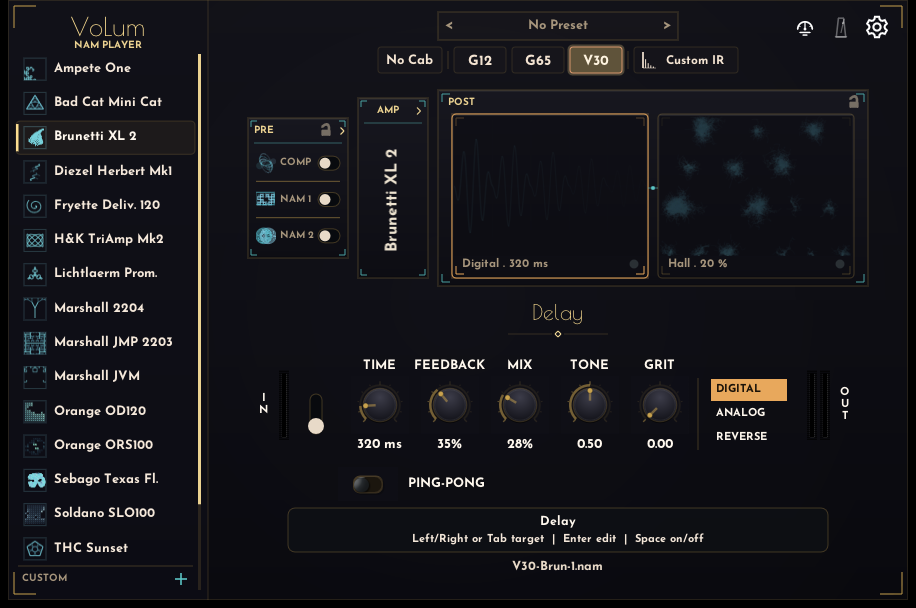
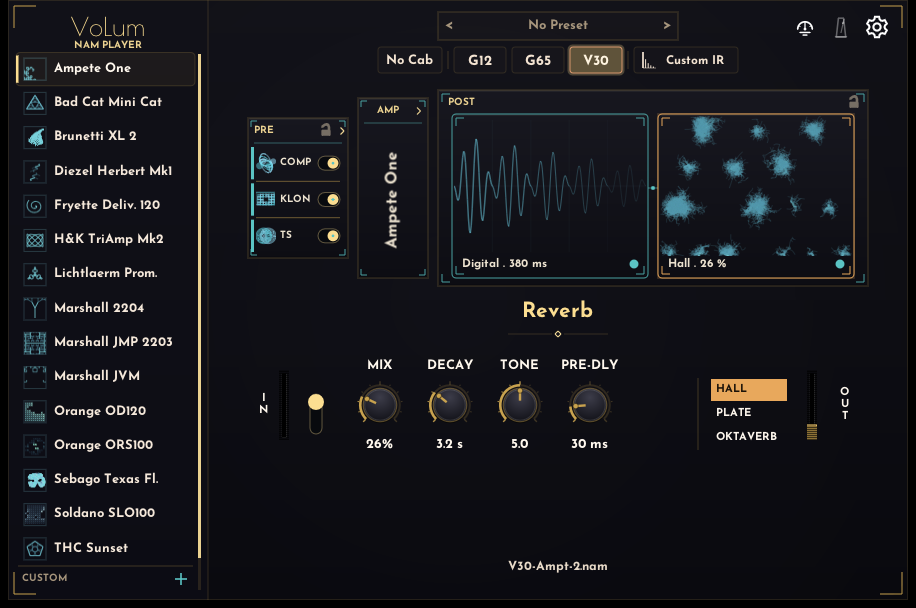
1.2.0 docs polish + custom-amp cab-name clamp
Documentation/screenshot finalization for the 1.2.0 BYO + presets release,
plus the cab-name overflow fix found during the doc pass.

Docs:
- Center the README hero; reshoot it as one deliberate SLO100 scene
  (channel 3, TS boost, reverb on, delay off).
- Reshoot Dual Amp pairing SLO100 with the Ampete One, panned.
- Refresh + add screenshots (custom amp builder, custom IR, custom pedal,
  presets) and wire them into the guide.
- Reword A2 messaging: NAM Architecture 2, best fit between 700-1200 epochs,
  always played full-size (never the lite slice); note custom amps accept
  A1/A2; clarify a custom IR convolves the amp's DIRECT capture.
- Re-research the amp orientation list and refresh the developer-guide
  product table for 1.2. EN/DE kept in sync. Remove the parked
  1.2.0-user-guide-todo checklist.

Fix:
- Clamp custom-amp cab-slot names to the 3-char rule at every persistence
  boundary (load + add/update), not just the builder rename field, so a
  hand-edited/migrated registry can't overflow the cabinet row. Adds a
  load-boundary clamp test.

diff --git a/NeuralAmpModeler/tests/test_volum_content_store.cpp b/NeuralAmpModeler/tests/test_volum_content_store.cpp
@@ -48,6 +48,37 @@ TEST_CASE("MintId returns prefixed, unique opaque ids")
   CHECK(MintId(r, "amp") != a);
 }
 
+TEST_CASE("Cab names are clamped to the 3-char rule at the load boundary")
+{
+  // Direct model helper: whitespace dropped, uppercased, capped at 3; an empty
+  // (or whitespace-only) slot falls back to its CBn default.
+  volum::custom::CustomAmp a;
+  a.cabNames = {"Bogner 4x12", "Marshall 1960", "   "};
+  volum::custom::NormalizeAmpCabNames(a);
+  CHECK(a.cabNames[0] == "BOG");
+  CHECK(a.cabNames[1] == "MAR");
+  CHECK(a.cabNames[2] == "CB3");
+
+  // Load path: a hand-edited / migrated registry carrying over-long names must
+  // not survive into the live model (otherwise the cabinet row overflows).
+  nlohmann::json amp;
+  amp["id"] = "amp_clamp";
+  amp["name"] = "Monomyth Skeleton Key";
+  amp["cabNames"] = nlohmann::json::array({"Bogner 4x12", "Marshall 1960", "Orange PPC"});
+  nlohmann::json amps = nlohmann::json::array();
+  amps.push_back(amp);
+  nlohmann::json j;
+  j["schemaVersion"] = kContentSchemaVersion;
+  j["customAmps"] = amps;
+
+  bool healed = false;
+  Registry r = RegistryFromJson(j, &healed);
+  REQUIRE(r.amps.size() == 1);
+  CHECK(r.amps[0].cabNames[0] == "BOG");
+  CHECK(r.amps[0].cabNames[1] == "MAR");
+  CHECK(r.amps[0].cabNames[2] == "ORA");
+}
+
 TEST_CASE("Registry round-trips amps, IRs, pedals, presets, and scenes")
 {
   Registry r;

diff --git a/NeuralAmpModeler/VoLumCustomModel.h b/NeuralAmpModeler/VoLumCustomModel.h
@@ -101,6 +101,23 @@ inline std::string NormalizeCabName(const std::string& in)
   return s;
 }
 
+// Clamp every cab-slot name to the 3-char rule (see NormalizeCabName). A slot
+// whose stored name normalizes to empty falls back to its "CBn" default. Apply
+// this at every persistence boundary (registry load + add/update) so a
+// hand-edited or migrated registry can never carry an over-long cab name that
+// overflows the cabinet row. The builder text-entry path already normalizes per
+// field; this is the matching backend guarantee.
+inline void NormalizeAmpCabNames(CustomAmp& amp)
+{
+  for (int i = 0; i < kNumCabSlots; ++i)
+  {
+    std::string norm = NormalizeCabName(amp.cabNames[(size_t)i]);
+    if (norm.empty())
+      norm = "CB" + std::to_string(i + 1);
+    amp.cabNames[(size_t)i] = norm;
+  }
+}
+
 // Number of files still missing a slot/channel assignment.
 inline int UnassignedCount(const CustomAmp& amp)
 {

diff --git a/NeuralAmpModeler/VoLumCustomContentMock.h b/NeuralAmpModeler/VoLumCustomContentMock.h
@@ -142,6 +142,7 @@ inline int AddCustomAmp(const CustomAmp& amp)
 {
   auto& reg = Store().reg();
   CustomAmp a = amp;
+  NormalizeAmpCabNames(a);
   const std::string base = a.name.empty() ? "New custom amp" : a.name;
   std::string unique = base;
   int suffix = 2;
@@ -171,6 +172,7 @@ inline int UpdateCustomAmp(int idx, const CustomAmp& amp)
     return -1;
   CustomAmp a = amp;
   a.id = reg.amps[(size_t)idx].id; // identity is immutable across edits
+  NormalizeAmpCabNames(a);
   const std::string base = a.name.empty() ? "New custom amp" : a.name;
   std::string unique = base;
   int suffix = 2;

diff --git a/NeuralAmpModeler/VoLumContentStore.h b/NeuralAmpModeler/VoLumContentStore.h
@@ -208,6 +208,9 @@ inline bool CustomAmpFromJson(const nlohmann::json& j, custom::CustomAmp& out)
       if (cn[i].is_string())
         out.cabNames[(size_t)i] = cn[i].get<std::string>();
   }
+  // Lenient-read clamp: enforce the 3-char cab-name rule on load so a
+  // hand-edited or migrated registry can never overflow the cabinet row.
+  custom::NormalizeAmpCabNames(out);
   if (j.contains("files") && j["files"].is_array())
   {
     for (const auto& f : j["files"])

diff --git a/docs/user-guide.de.md b/docs/user-guide.de.md
@@ -15,7 +15,7 @@ Dieses Handbuch erklärt die VoLum-1.2-Oberfläche nach der Installation. Downlo
 5. **PRE | AMP | POST-Leiste:** öffnet immer genau einen Bereich.
 6. **Toolbar:** Tuner, Metronom und Einstellungen sitzen oben rechts.
 
-Die mitgelieferten NAM-Profile wurden mit einem Interface-Eingangspegel um +4 dBu aufgenommen. Nutze einen ähnlichen Pro-Line-Eingangspegel in VoLum, um den aufgenommenen Sounds möglichst nah zu kommen. VoLum 1.1 liefert die komplette A2-Profilbibliothek: alle mitgelieferten Amp-, Cab- und PRE-NAM-Captures wurden mit dem VoLum-Training samt 700-1200-Epochen-Eskalation neu trainiert.
+Die mitgelieferten NAM-Profile wurden mit einem Interface-Eingangspegel um +4 dBu aufgenommen. Nutze einen ähnlichen Pro-Line-Eingangspegel in VoLum, um den aufgenommenen Sounds möglichst nah zu kommen. Jedes mitgelieferte Amp-, Cab- und PRE-NAM-Capture ist ein NAM-Architecture-2-(A2)-Profil, trainiert auf den besten Sitz zwischen 700 und 1200 Epochen. A2-Captures werden immer in voller Größe gespielt; VoLum fällt nie auf die Lite-Variante zurück.
 
 VoLum speichert die meisten Spiel-Einstellungen pro Amp. Wenn du zu einem Amp zurückkehrst, stellt VoLum Speaker, Kanal, Regler, PRE-Pedale, POST-Effekte und Dual Amp wieder her.
 
@@ -25,9 +25,10 @@ Die linke Seitenleiste enthält die 15 mitgelieferten Amps. Jeder Amp hat vier S
 
 Kurze Orientierung:
 
-- **Vintage:** Orange ORS100, Orange OD120, Marshall JMP 2203, Marshall 2204.
-- **Modern/High Gain:** Diezel Herbert, Soldano SLO100, Marshall JVM, H&K TriAmp.
-- **Boutique/Charakter:** Ampete One, Bad Cat Mini Cat, Brunetti XL 2, Lichtlaerm Prometheus, Sebago Texas Flood, THC Sunset, Fryette Deliverance.
+- **Clean, Blues und dynamische Boutique:** Sebago Texas Flood (ein Pedal-Platform im Stil des Dumble Steel String Singer), THC Sunset, Bad Cat Mini Cat.
+- **Vintage und Classic-Rock-Crunch:** Orange ORS100, Orange OD120, Marshall JMP 2203, Marshall 2204.
+- **Modern und High Gain:** Soldano SLO100, Diezel Herbert, Marshall JVM, H&K TriAmp, Fryette Deliverance, Lichtlaerm Prometheus, Brunetti XL 2.
+- **Allrounder:** Der Ampete One vereint eine amerikanische und eine britische Stimme in einem Amp.
 
 Amp-EQ und Pedal-EQ sind zusätzliche Klangregler. Sie müssen nicht den physischen Reglerstellungen entsprechen, mit denen das Profil aufgenommen wurde.
 
@@ -95,6 +96,8 @@ Beim Wechsel von Delay-Modus, Ping-Pong, Reverb-Modus oder Oktaverb-Stimme wird 
 
 ## Presets
 
+![VoLum Preset-Verwaltung](user-guide-presets.png)
+
 Ein Preset ist eine benannte Momentaufnahme des gesamten Rigs für den fokussierten Amp: Speaker/Cab, Kanal, alle Regler, PRE-Pedale, POST-Effekte und das Dual-Amp-Setup.
 
 1. Stelle einen Sound ein und öffne die Preset-Leiste in der AMP-Kopfzeile.
@@ -111,11 +114,17 @@ VoLum kann eigene NAM-Amp-Captures, Impulsantworten und Pedal-Captures laden. Im
 - **Windows:** `%LOCALAPPDATA%\VoLum\content`
 - **macOS:** `~/Library/Application Support/VoLum/content`
 
-**Eigene Amps.** Öffne das **+** im CUSTOM-Bereich des Amp-Browsers, um den Builder zu öffnen. Benenne den Amp, füge eine oder mehrere `.nam`-Dateien hinzu und ordne jede einem Cab-Slot und Kanal zu (Dateien im Schema `PREFIX-CODE-CHANNEL.nam` füllen das automatisch aus). Gespeicherte eigene Amps erscheinen in der CUSTOM-Liste und werden genau wie Werk-Amps geladen und gespielt — auch als Dual-Amp-SUPPORT-Partner. Mit den Stift-/Papierkorb-Symbolen bearbeitest oder löschst du einen.
+**Eigene Amps.** Klicke auf das **+** im CUSTOM-Bereich des Amp-Browsers, um den Builder zu öffnen. Benenne den Amp, füge eine oder mehrere `.nam`-Dateien hinzu und ordne jede einem Cab-Slot und Kanal zu (Dateien im Schema `PREFIX-CODE-CHANNEL.nam` füllen das automatisch aus). Sowohl NAM-Architecture-1-(A1)- als auch Architecture-2-(A2)-Captures laden, und A2-Container werden in voller Größe gespielt wie die mitgelieferten Profile. Gespeicherte eigene Amps erscheinen in der CUSTOM-Liste und werden genau wie Werk-Amps geladen und gespielt — auch als Dual-Amp-SUPPORT-Partner. Mit den Stift-/Papierkorb-Symbolen bearbeitest oder löschst du einen.
 
-**Eigene IRs.** Wähle in der Speaker-Reihe das Cab **Custom IR** und importiere dann über dessen Dropdown eine `.wav`-Impulsantwort. Die IR faltet auf dem fokussierten Cab.
+![VoLum Builder für eigene Amps](user-guide-custom-amp.png)
+
+**Eigene IRs.** Eine Custom IR faltet das **DIRECT**-Capture (nur Amp) des Amps — den rohen Amp ohne eingebackenen Speaker. Sie ist für einen eigenen Amp gedacht, der ein DIRECT-Capture enthält; die Auswahl des Cabs **Custom IR** schaltet den Amp zuerst auf sein DIRECT/No-Cab-Capture. Ein eigener Amp, der nur aus vollen Amp-plus-Cab-Captures gebaut ist, hat kein rohes Signal, das eine IR formen könnte. Wähle in der Speaker-Reihe das Cab **Custom IR** und importiere dann über dessen Dropdown eine `.wav`-Impulsantwort.
+
+![VoLum Verwaltung eigener IRs](user-guide-custom-ir.png)
 
 **Eigene Pedale.** Im PRE-NAM-Capture-Dropdown kannst du in der **CUSTOM**-Gruppe eigene `.nam`-Pedal-Captures importieren und verwalten; ein importiertes Capture lädt wie ein Werk-Capture in seinen PRE-Slot.
+
+![VoLum Verwaltung eigener Pedale](user-guide-custom-pedal.png)
 
 Die Inhaltsbibliothek wird von allen geöffneten Instanzen und Spuren geteilt. In einer DAW speichert das Projekt stabile Referenzen (IDs) auf deine eigenen Amps, IRs, Pedale und das aktive Preset, sodass das erneute Öffnen eines Projekts sie wiederherstellt, solange die Einträge noch in deiner Bibliothek vorhanden sind.
 

diff --git a/docs/user-guide.en.md b/docs/user-guide.en.md
@@ -15,7 +15,7 @@ This guide explains the VoLum 1.2 interface after installation. For downloads, u
 5. **PRE | AMP | POST strip:** open one section at a time.
 6. **Toolbar:** tuner, metronome, and settings live in the top-right corner.
 
-The bundled NAM profiles were captured with the interface input set around +4 dBu. Use a similar pro-line input level into VoLum for the closest match to the captured tones. VoLum 1.1 ships the full A2 profile library: all bundled amp, cab, and PRE NAM captures were retrained with the VoLum 700-1200 epoch escalation workflow.
+The bundled NAM profiles were captured with the interface input set around +4 dBu. Use a similar pro-line input level into VoLum for the closest match to the captured tones. Every bundled amp, cab, and PRE NAM capture is a NAM Architecture 2 (A2) profile, trained to its best fit between 700 and 1200 epochs. A2 captures always play at full size; VoLum never drops to the lite slice.
 
 VoLum saves most playing choices per amp. When you come back to an amp, it restores the speaker, channel, knobs, PRE pedals, POST effects, and Dual Amp setup.
 
@@ -25,9 +25,10 @@ Use the left sidebar for the 15 bundled amps. Each amp has four speaker modes an
 
 Short orientation:
 
-- **Vintage:** Orange ORS100, Orange OD120, Marshall JMP 2203, Marshall 2204.
-- **Modern/high gain:** Diezel Herbert, Soldano SLO100, Marshall JVM, H&K TriAmp.
-- **Boutique/character:** Ampete One, Bad Cat Mini Cat, Brunetti XL 2, Lichtlaerm Prometheus, Sebago Texas Flood, THC Sunset, Fryette Deliverance.
+- **Cleans, blues, and dynamic boutique:** Sebago Texas Flood (a Dumble Steel String Singer-style pedal platform), THC Sunset, Bad Cat Mini Cat.
+- **Vintage and classic-rock crunch:** Orange ORS100, Orange OD120, Marshall JMP 2203, Marshall 2204.
+- **Modern and high gain:** Soldano SLO100, Diezel Herbert, Marshall JVM, H&K TriAmp, Fryette Deliverance, Lichtlaerm Prometheus, Brunetti XL 2.
+- **Do-it-all:** Ampete One pairs an American and a British voice in one amp.
 
 Amp EQ and pedal EQ are extra tone-shaping controls. They do not need to match the physical knob positions used during profiling.
 
@@ -95,6 +96,8 @@ Switching Delay mode, Ping-Pong, Reverb mode, or Oktaverb voice clears the old t
 
 ## Presets
 
+![VoLum preset manager](user-guide-presets.png)
+
 A preset is a named snapshot of the whole rig for the focused amp: speaker/cab, channel, all knobs, PRE pedals, POST effects, and the Dual Amp setup.
 
 1. Dial in a tone, then open the preset bar in the AMP header.
@@ -111,11 +114,17 @@ VoLum can load your own NAM amp captures, impulse responses, and pedal captures.
 - **Windows:** `%LOCALAPPDATA%\VoLum\content`
 - **macOS:** `~/Library/Application Support/VoLum/content`
 
-**Custom amps.** Open the **+** in the CUSTOM section of the amp browser to open the builder. Name the amp, add one or more `.nam` files, and assign each to a cab slot and channel (files named `PREFIX-CODE-CHANNEL.nam` auto-fill). Saved custom amps appear in the CUSTOM list and load and play exactly like factory amps — including as the dual-amp SUPPORT partner. Use the pen/bin icons to edit or delete one.
+**Custom amps.** Click the **+** in the CUSTOM section of the amp browser to open the builder. Name the amp, add one or more `.nam` files, and assign each to a cab slot and channel (files named `PREFIX-CODE-CHANNEL.nam` auto-fill). Both NAM Architecture 1 (A1) and Architecture 2 (A2) captures load, and A2 containers play at full size like the bundled profiles. Saved custom amps appear in the CUSTOM list and load and play exactly like factory amps — including as the dual-amp SUPPORT partner. Use the pen/bin icons to edit or delete one.
 
-**Custom IRs.** In the speaker row, choose the **Custom IR** cab, then import a `.wav` impulse response from its dropdown. The IR convolves on the focused cab.
+![VoLum custom amp builder](user-guide-custom-amp.png)
+
+**Custom IRs.** A custom IR convolves the amp's **DIRECT** (amp-only) capture — the raw amp with no speaker baked in. It is meant for a custom amp that includes a DIRECT capture; selecting the **Custom IR** cab switches the amp to its DIRECT/No Cab capture first. A custom amp built only from full amp-plus-cab captures has no raw signal for an IR to shape. In the speaker row, choose the **Custom IR** cab, then import a `.wav` impulse response from its dropdown.
+
+![VoLum custom IR manager](user-guide-custom-ir.png)
 
 **Custom pedals.** In the PRE NAM-capture dropdown, the **CUSTOM** group lets you import and manage your own `.nam` pedal captures; an imported capture loads into its PRE slot like a factory one.
+
+![VoLum custom pedal manager](user-guide-custom-pedal.png)
 
 The content library is shared across all open instances and tracks. In a DAW, the project stores stable references (ids) to your custom amps, IRs, pedals, and the active preset, so reopening a project restores them as long as the items still exist in your library.
 

diff --git a/README.de.md b/README.de.md
@@ -2,18 +2,22 @@
 
 # VoLum
 
-![VoLum standalone UI](docs/user-guide-main.png)
+<p align="center">
+  <img src="docs/user-guide-main.png" alt="VoLum Standalone-Oberfläche" width="820">
+</p>
 
-VoLum ist eine Open-Source-Gitarren-Amp-Sammlung für Bühne, Studio und Übungsplatz. VoLum nutzt den [Neural Amp Modeler](https://github.com/sdatkinson/NeuralAmpModelerCore)-Kern, ist aber ein eigenes fokussiertes Produkt: 15 kuratierte Amps, PRE-Pedale, Dual Amp, POST-Effekte, Tuner, Metronom und eine schnelle dunkle Oberfläche als Standalone-App oder VST3.
+VoLum ist eine Open-Source-Gitarren-Amp-Sammlung für Bühne, Studio und Übungsplatz. VoLum nutzt den [Neural Amp Modeler](https://github.com/sdatkinson/NeuralAmpModelerCore)-Kern, ist aber ein eigenes fokussiertes Produkt: 15 kuratierte Amps, PRE-Pedale, Dual Amp, POST-Effekte, eigene Amp-/IR-/Pedal-Importe, Presets pro Amp, Tuner, Metronom und eine schnelle dunkle Oberfläche als Standalone-App oder VST3.
 
 [VoLum herunterladen](https://github.com/guitarlum/VoLum/releases) oder direkt ins [Benutzerhandbuch](docs/user-guide.de.md).
 
 ## Was VoLum Besonders Macht
 
 - **15 Amps sofort spielbereit:** Vintage-, moderne und Boutique-Captures mit 4 Speaker-Modi und mehreren Gain-Stufen pro Amp.
-- **Komplette A2-Profilbibliothek:** jedes mitgelieferte Amp-, Cab- und PRE-NAM-Capture ist mit VoLums 700-1200-Epochen-Eskalationsworkflow trainiert.
+- **NAM-Architecture-2-(A2)-Profile:** jedes mitgelieferte Amp-, Cab- und PRE-NAM-Capture ist ein A2-Modell, trainiert auf den besten Sitz zwischen 700 und 1200 Epochen, und wird immer in voller Größe gespielt (nie die Lite-Variante).
 - **Kompletter Rig-Workflow:** PRE-Kompressor und NAM-Pedal-Slots, AMP-Regler und POST Delay/Reverb in einer `PRE | AMP | POST`-Oberfläche.
 - **Dual Amp:** Haupt-Amp mit Support-Amp mischen, beide Spuren pannen und bei Bedarf die Support-Polarität drehen.
+- **Bring Your Own:** eigene NAM-Amp-Captures (A1 oder A2), Impulsantworten und Pedal-Captures in eine verwaltete Bibliothek importieren, die auch nach dem Verschieben der Originale weiter funktioniert.
+- **Presets pro Amp:** benannte Rig-Momentaufnahmen je Amp speichern und mit `‹` / `›` direkt durchblättern.
 - **POST-Effekte mit Charakter:** Digital, Analog und Reverse Delay plus Hall, Plate und Oktaverb Reverb mit Halo, Shimmer und Bloom.
 - **Übungswerkzeuge eingebaut:** lautloser Tuner und einstellbares Metronom in Standalone und VST3.
 - **Schnelles Umschalten und Recall:** Amp-Modelle laden im Hintergrund; jeder Amp merkt sich Speaker, Kanal, Regler, PRE, POST und Dual Amp.
@@ -120,7 +124,7 @@ Jeder Amp enthält die Speaker-Modi `AMP`, `G12`, `G65` und `V30`.
 
 ## Mehr Erfahren
 
-- [Benutzerhandbuch](docs/user-guide.de.md): Oberfläche, Dual Amp, PRE-Pedale, POST-Effekte, Tuner, Metronom, Tastatursteuerung und Einstellungen.
+- [Benutzerhandbuch](docs/user-guide.de.md): Oberfläche, Dual Amp, PRE-Pedale, POST-Effekte, eigene Inhalte, Presets, Tuner, Metronom, Tastatursteuerung und Einstellungen.
 - [Entwickler-Leitfaden](NeuralAmpModeler/README.md): Build-, Test-, Packaging- und Architekturhinweise.
 - [Fehler melden oder Feature vorschlagen](https://github.com/guitarlum/VoLum/issues/new/choose): nutze die Vorlage **Bug report** für Abstürze oder Fehlverhalten und **Feature request** für Ideen.
 - Einstellungen liegen lokal unter `%LOCALAPPDATA%\VoLum\volum-settings.json` auf Windows und `~/Library/Application Support/VoLum/volum-settings.json` auf macOS.

diff --git a/README.md b/README.md
@@ -2,18 +2,22 @@
 
 # VoLum
 
-![VoLum standalone UI](docs/user-guide-main.png)
+<p align="center">
+  <img src="docs/user-guide-main.png" alt="VoLum standalone UI" width="820">
+</p>
 
-VoLum is an open-source guitar amp collection for the stage, studio, and practice desk. It uses the [Neural Amp Modeler](https://github.com/sdatkinson/NeuralAmpModelerCore) core, but ships as its own focused app: 15 curated amps, built-in PRE pedals, Dual Amp, POST effects, tuner, metronome, and a fast dark UI for standalone use or VST3 hosts.
+VoLum is an open-source guitar amp collection for the stage, studio, and practice desk. It uses the [Neural Amp Modeler](https://github.com/sdatkinson/NeuralAmpModelerCore) core, but ships as its own focused app: 15 curated amps, built-in PRE pedals, Dual Amp, POST effects, your own amp/IR/pedal imports, per-amp presets, a tuner, a metronome, and a fast dark UI for standalone use or VST3 hosts.
 
 [Download VoLum](https://github.com/guitarlum/VoLum/releases) or jump to the [user guide](docs/user-guide.en.md).
 
 ## Why It Stands Out
 
 - **15 bundled amps, ready to play:** vintage, modern, and boutique captures with 4 speaker modes and multiple gain-stage channels each.
-- **Full A2 profile library:** every bundled amp, cab, and PRE NAM capture is trained with VoLum's 700-1200 epoch escalation workflow.
+- **NAM Architecture 2 (A2) profiles:** every bundled amp, cab, and PRE NAM capture is an A2 model, trained to its best fit between 700 and 1200 epochs and always played at full size (never the lite slice).
 - **Full rig workflow:** PRE compressor and NAM pedal slots, AMP controls, and POST Delay/Reverb live in one `PRE | AMP | POST` layout.
 - **Dual Amp:** blend a main amp with a support amp, pan both lanes, and flip support polarity when a stack needs it.
+- **Bring your own:** import your NAM amp captures (A1 or A2), impulse responses, and pedal captures into a managed library that keeps working after you move the originals.
+- **Per-amp presets:** save named rig snapshots for each amp and cycle them in place with `‹` / `›`.
 - **POST effects with character:** Digital, Analog, and Reverse Delay plus Hall, Plate, and Oktaverb Reverb with Halo, Shimmer, and Bloom voices.
 - **Practice tools built in:** silent tuner and configurable metronome work in both standalone and VST3.
 - **Fast switching and recall:** amp models load in the background, and each amp remembers its speaker, channel, knobs, PRE, POST, and Dual Amp setup.
@@ -120,7 +124,7 @@ Each amp ships with `AMP`, `G12`, `G65`, and `V30` speaker modes.
 
 ## Learn More
 
-- [User guide](docs/user-guide.en.md): interface, Dual Amp, PRE pedals, POST effects, tuner, metronome, keyboard controls, and settings.
+- [User guide](docs/user-guide.en.md): interface, Dual Amp, PRE pedals, POST effects, custom content, presets, tuner, metronome, keyboard controls, and settings.
 - [Developer guide](NeuralAmpModeler/README.md): build, test, packaging, and architecture notes.
 - [Report a bug or request a feature](https://github.com/guitarlum/VoLum/issues/new/choose): use the **Bug report** template for crashes or wrong behavior, and **Feature request** for ideas.
 - Settings are stored locally at `%LOCALAPPDATA%\VoLum\volum-settings.json` on Windows and `~/Library/Application Support/VoLum/volum-settings.json` on macOS.

diff --git a/NeuralAmpModeler/README.md b/NeuralAmpModeler/README.md
@@ -6,11 +6,13 @@ This is the build and architecture reference for contributors. For download and 
 
 VoLum is an independent NAM-based amp collection app. It still keeps selected upstream-compatible files and paths so future NAM Plugin fixes can be cherry-picked, but the shipped product is the curated VoLum workflow.
 
-| Area | VoLum 1.0 behavior |
+| Area | VoLum 1.2 behavior |
 | --- | --- |
-| **Amp catalog** | 15 bundled amps with sidebar browsing, 4 speaker modes, and per-amp channel steppers. |
+| **Amp catalog** | 15 bundled amps with sidebar browsing, 4 speaker modes, and per-amp channel steppers. All captures are NAM Architecture 2 (A2) packed containers, played at full size (A2-Lite opt-in is backlog `F4`). |
 | **Rig building** | PRE compressor + two NAM pedal slots, AMP controls, Dual Amp, and POST Delay/Reverb in the triptych UI. |
-| **Persistence** | Per-amp speaker, channel, knobs, PRE, POST, and Dual Amp settings stored in user profile JSON; VST3 also serializes state. |
+| **Custom content (BYO)** | Import your own NAM amp captures (A1 or A2), IRs, and pedal captures into a VoLum-owned content library (`volum-content.json`); referenced from DAW projects by stable opaque ids. |
+| **Presets** | Per-amp named snapshots of the full rig (capture/recall/overwrite/rename/delete) with an exact-compare "(unsaved)" indicator. |
+| **Persistence** | Per-amp speaker, channel, knobs, PRE, POST, Dual Amp, custom-IR/support ids, and the active preset stored in user profile JSON; VST3 also serializes state (chunk 1.2.0 with an append-only id tail). |
 | **Practice tools** | Chromatic tuner and metronome in standalone and VST3. |
 | **Keyboard workflow** | Section switching, focus movement, knob edit mode, exact entry, toggles, tuner/metronome/settings shortcuts. |
 | **Runtime behavior** | Background model loading, per-amp DSP cache, NAM output NaN scrub, and final-bus output safety. |
